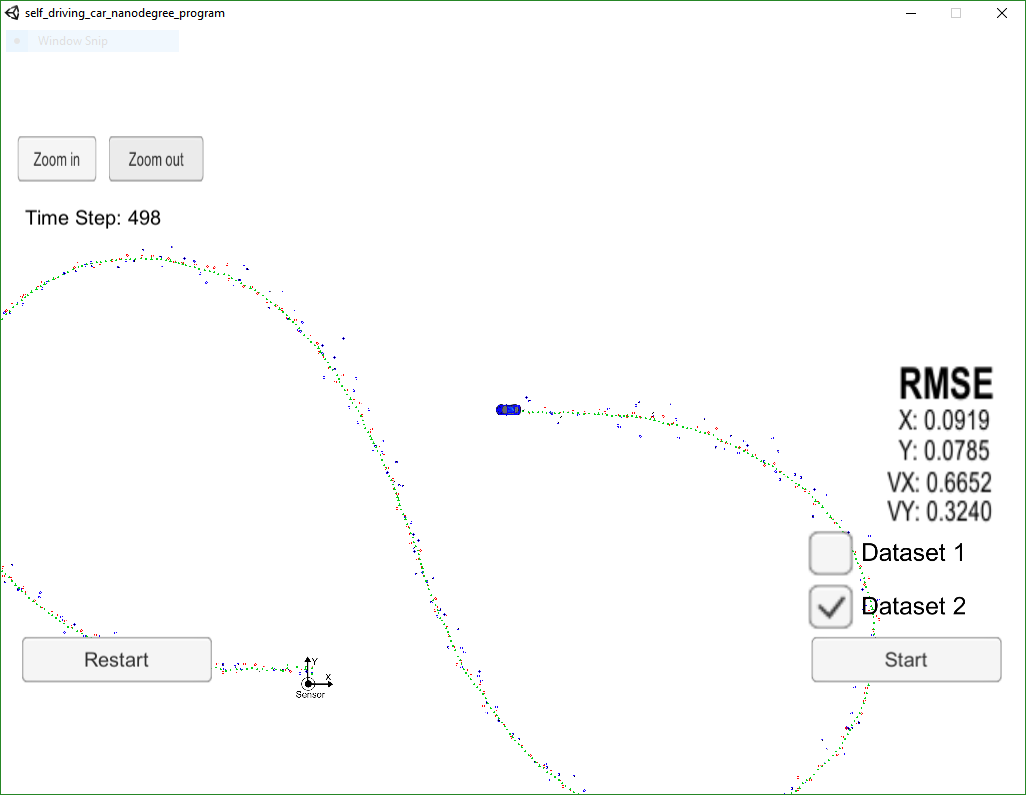
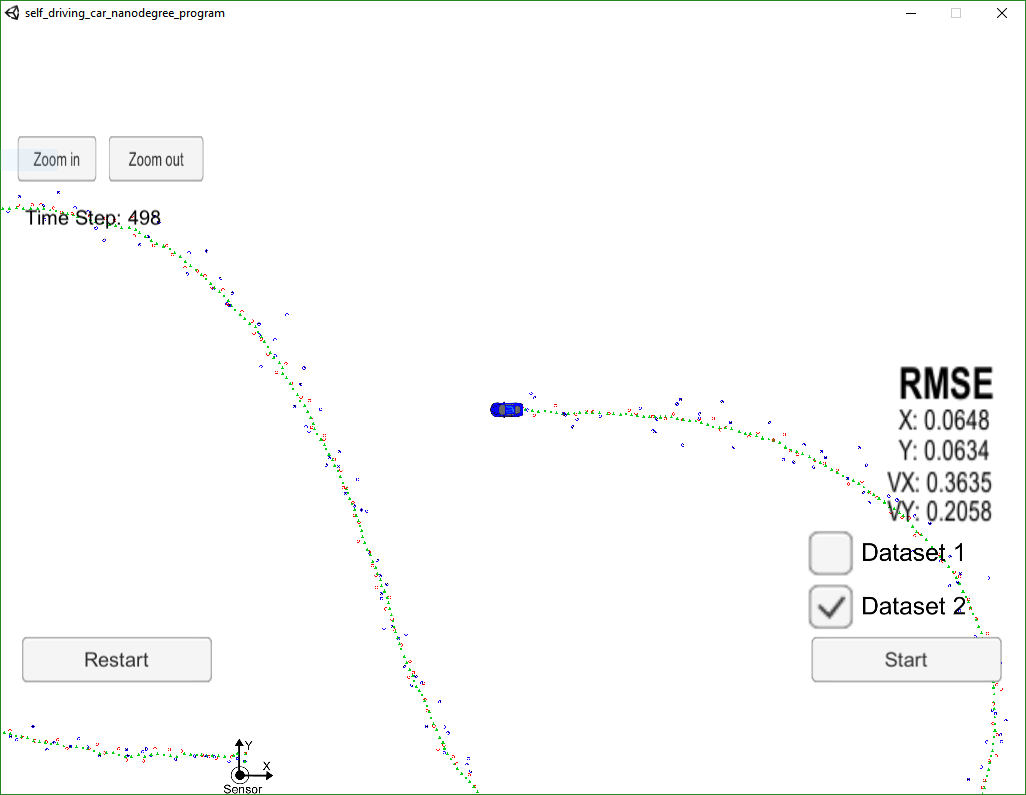
Adding the rmse sensitivity chart and the Octave analysis script. Updated dataset results. Tuned process noise and P_ initialization to better handle both datasets. Added commandline args to set process noise on the fly. Added a rmse file stream to tools.

diff --git a/src/ukf.cpp b/src/ukf.cpp
@@ -37,10 +37,10 @@ UKF::UKF() {
   weights_ = VectorXd(2 * n_aug_ + 1);
 
   // Process noise standard deviation longitudinal acceleration in m/s^2
-  std_a_ = 2;
+  std_a_ = 1;
 
   // Process noise standard deviation yaw acceleration in rad/s^2
-  std_yawdd_ = 0.3;
+  std_yawdd_ = 0.7;
 
   // Laser measurement noise standard deviation position1 in m
   std_laspx_ = 0.15;
@@ -64,9 +64,9 @@ UKF::UKF() {
   P_ = MatrixXd::Identity(n_x_, n_x_);
   P_(0, 0) = 1.0;
   P_(1, 1) = 1.0;
-  P_(2, 2) = 1; // 3.6;
-  P_(3, 3) = 1; // 2 * M_PI;
-  P_(4, 4) = 1; // M_PI / 8;
+  P_(2, 2) = 10.0;
+  P_(3, 3) = 1.0;
+  P_(4, 4) = M_PI / 8;
 
   // laser measurement function
   H_ = MatrixXd::Zero(2, 5);
@@ -96,6 +96,11 @@ float Wrap2pi(float rval) {
     rval += 2 * M_PI;
   }
   return rval;
+}
+
+void UKF::SetProcessNoise(float a, float b) {
+  std_a_ = a;
+  std_yawdd_ = b;
 }
 
 /**

diff --git a/src/tools.cpp b/src/tools.cpp
@@ -5,9 +5,9 @@ using Eigen::VectorXd;
 using Eigen::MatrixXd;
 using std::vector;
 
-Tools::Tools() {}
+Tools::Tools() { rmse_fs_.open("rmse.csv"); }
 
-Tools::~Tools() {}
+Tools::~Tools() { rmse_fs_.close(); }
 
 VectorXd Tools::CalculateRMSE(const vector<VectorXd> &estimations,
                               const vector<VectorXd> &ground_truth) {
@@ -42,6 +42,9 @@ VectorXd Tools::CalculateRMSE(const vector<VectorXd> &estimations,
 
   // calculate the squared root
   rmse = rmse.array().sqrt();
+
+  // save rmse for analysis
+  rmse_fs_ << rmse << std::endl;
 
   return rmse;
 }

diff --git a/src/tools.h b/src/tools.h
@@ -1,6 +1,8 @@
 #ifndef TOOLS_H_
 #define TOOLS_H_
 #include "Eigen/Dense"
+#include <fstream>
+#include <iostream>
 #include <vector>
 
 using Eigen::MatrixXd;
@@ -9,6 +11,11 @@ using namespace std;
 
 class Tools {
 public:
+  /**
+   * A file stream to save the RMSE values.
+   */
+  std::ofstream rmse_fs_;
+
   /**
   * Constructor.
   */

diff --git a/src/ukf.h b/src/ukf.h
@@ -87,6 +87,13 @@ public:
   virtual ~UKF();
 
   /**
+   * SetProcessNoise
+   * @param a The std_a noise value
+   * @param b The std_yawdd noise value
+   */
+  void SetProcessNoise(float a, float b);
+
+  /**
    * ProcessMeasurement
    * @param meas_package The latest measurement data of either radar or laser
    */

diff --git a/src/main.cpp b/src/main.cpp
@@ -25,11 +25,13 @@ std::string hasData(std::string s) {
   return "";
 }
 
-int main() {
+int main(int argc, char *argv[]) {
   uWS::Hub h;
 
   // Create a Kalman Filter instance
   UKF ukf;
+  if (argc > 2)
+    ukf.SetProcessNoise(atof(argv[1]), atof(argv[2]));
 
   // used to compute the RMSE later
   Tools tools;

diff --git a/analysis.m b/analysis.m
@@ -1,0 +1,5 @@
+clear;
+L = csvread("./build/nis_laser.csv");
+R = csvread("./build/nis_radar.csv");
+RMSE = csvread("./build/rmse.csv");
+mean(RMSE)
